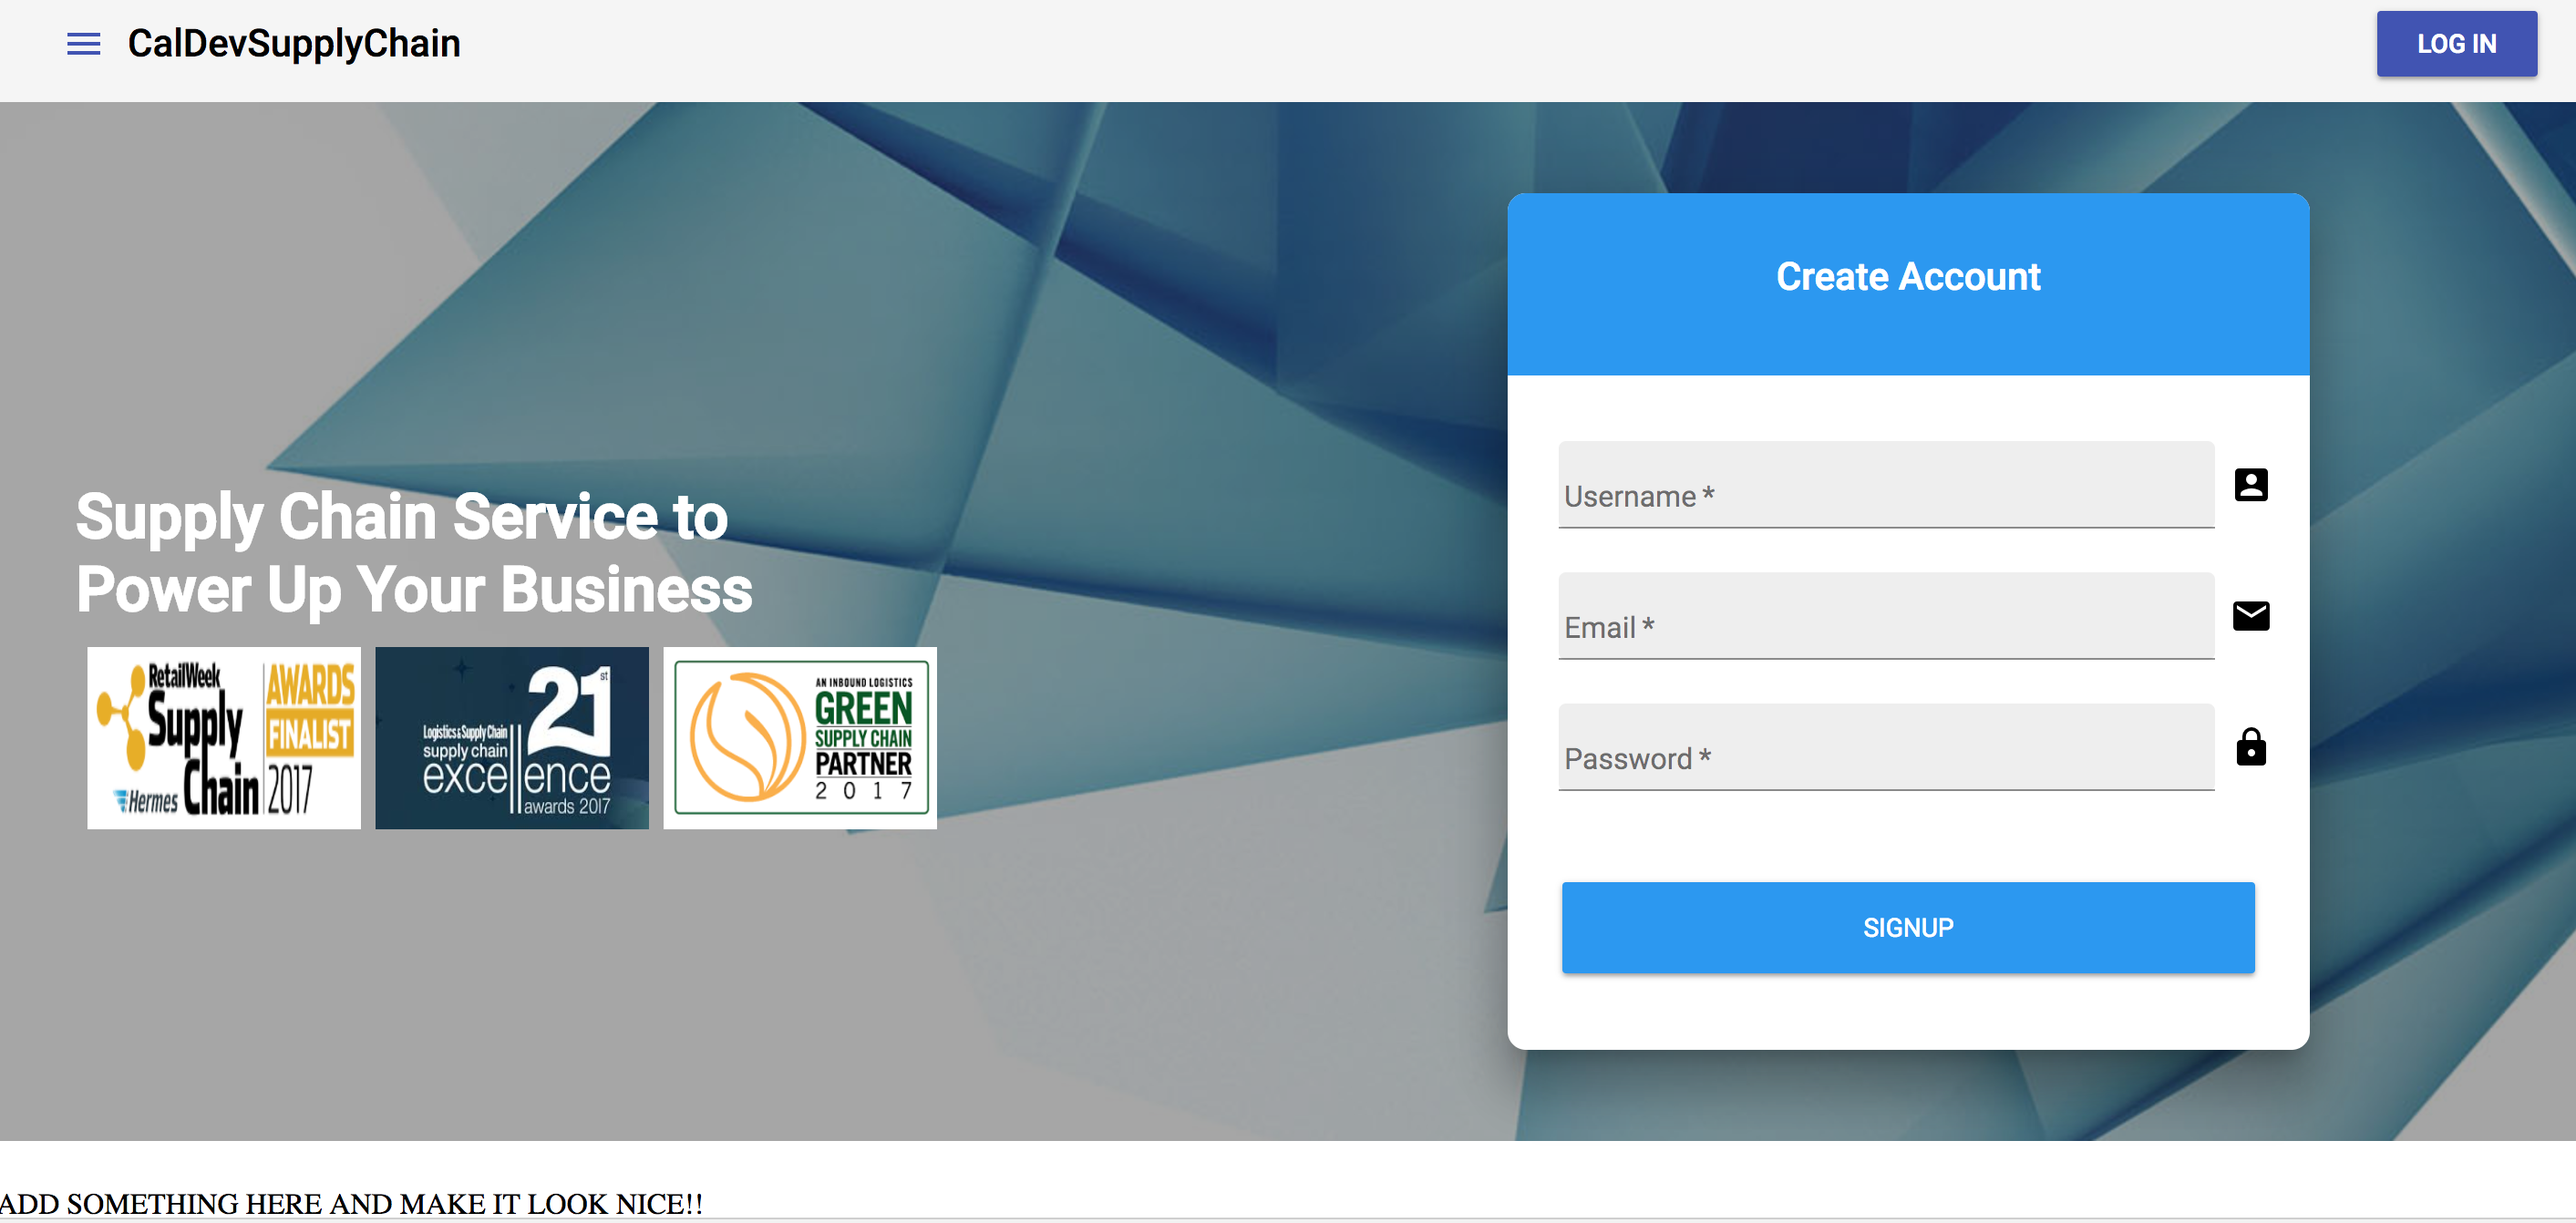
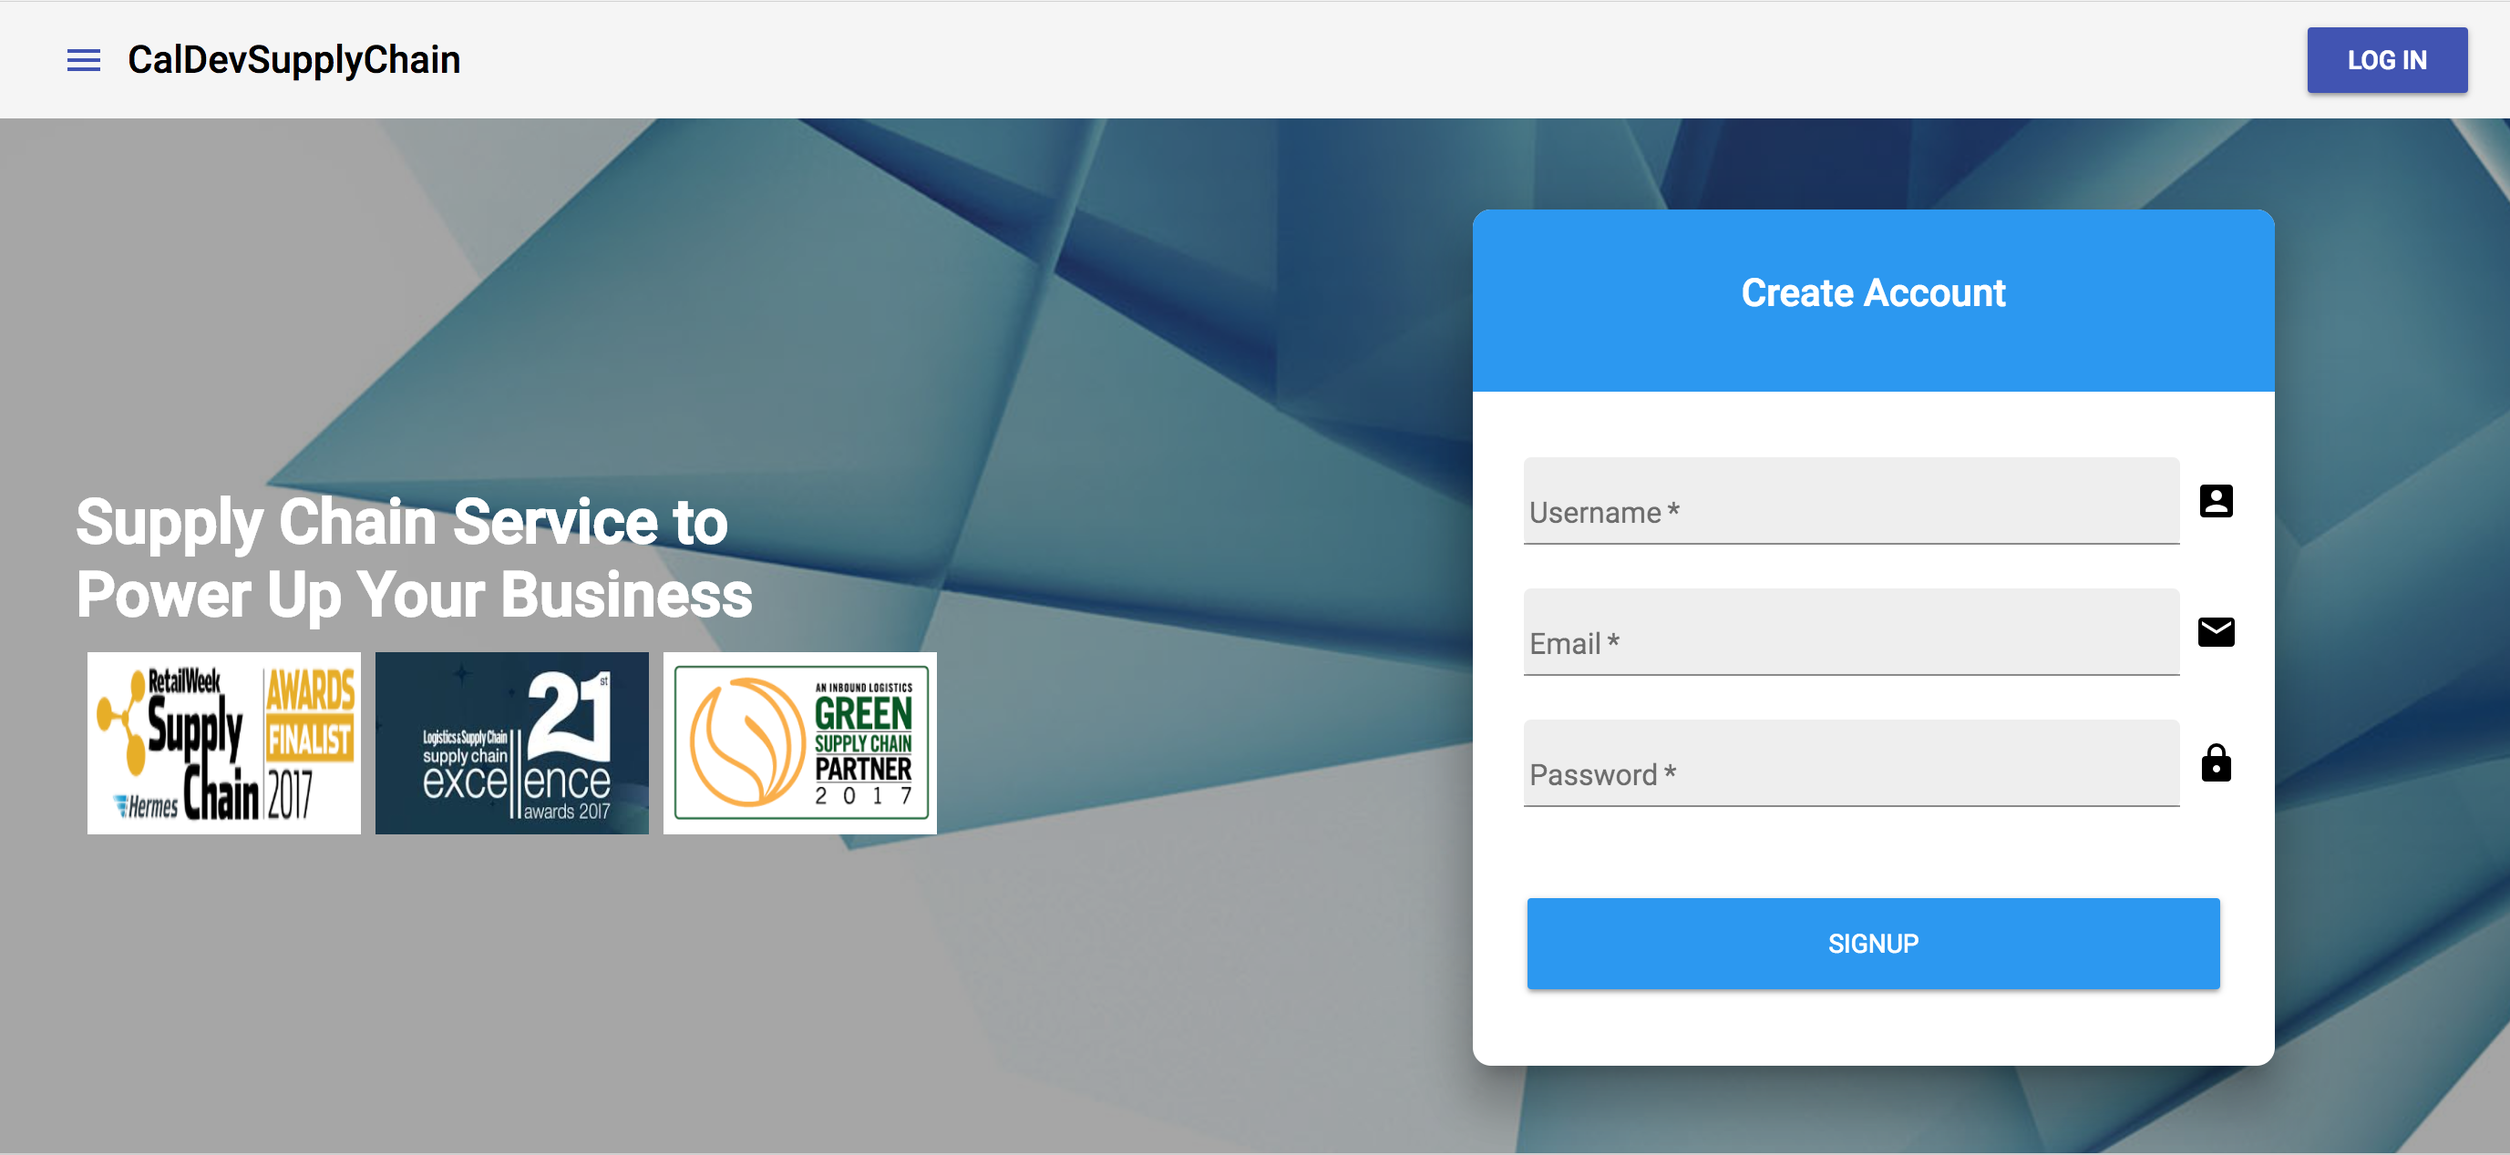
change files for order

diff --git a/app/src/containers/MyOrderPage.js b/app/src/containers/MyOrderPage.js
@@ -1,0 +1,91 @@
+import React, { Component } from 'react'
+class MyOrderPage extends Component {
+
+    render() {
+        return (
+            <div>
+                <button class="button button4">MyOrder</button>
+                <button class="button button4">Manufacturer</button>
+                <button class="button button4">Designer</button>
+
+                <div className= "create_order">
+                    <a href="#" class="button_link button4"> Create Order</a>
+                </div>
+                <div className= "active-order">
+                    <h1>Active Order</h1>
+                </div>
+
+
+                <div className= "table">
+                    <table>
+                        <tr>
+                            <th>Order#</th>
+                            <th>Created on</th>
+                            <th>Expect delivery</th>
+                            <th>Progress</th>
+                            <th>Agent</th>
+                            <th>Total</th>
+                        </tr>
+                        <br/>
+                        <tr>
+                        <td>#001</td>
+                        <td>09/05/2017</td>
+                        <td>12/05/2017</td>
+                        </tr>
+                        <tr>
+                        <td>#002</td>
+                        <td>08/05/2017</td>
+                        <td>01/05/2018</td>
+                        </tr>
+                        <tr>
+                        <td>#003</td>
+                        <td>10/05/2017</td>
+                        <td>02/05/2018</td>
+                        </tr>
+
+                    </table>
+                </div>
+
+                <div className= "active-order">
+                    <h1>Process Order</h1>
+                </div>
+
+                <div className= "table">
+                    <table>
+                        <tr>
+                            <th>Order#</th>
+                            <th>Created on</th>
+                            <th>Delivery</th>
+                            <th>Progress</th>
+                            <th>Agent</th>
+                            <th>Total</th>
+                        </tr>
+                        <br/>
+                        <tr>
+                            <td>#004</td>
+                            <td>09/05/2017</td>
+                            <td>12/05/2017</td>
+                        </tr>
+                        <tr>
+                            <td>#005</td>
+                            <td>08/05/2017</td>
+                            <td>01/05/2018</td>
+                        </tr>
+                        <tr>
+                            <td>#006</td>
+                            <td>10/05/2017</td>
+                            <td>02/05/2018</td>
+                        </tr>
+
+                    </table>
+                </div>
+
+            </div>
+
+
+
+        )
+    }
+}
+
+export default MyOrderPage

diff --git a/app/src/containers/LoginPage.js b/app/src/containers/LoginPage.js
@@ -2,23 +2,30 @@ import React, { Component } from 'react'
 import AppBar from 'material-ui/AppBar';
 import AppBarExampleIcon from '../components/AppBar/LoginAppBar';
 //import Background from '/Users/liusongyu/Desktop/FE/CalDevSupplyChain/app/src/blue-background.jpg';
-import Background from '../asset/img/blue-background.jpg';
+import Background from '../asset/img/bg2.jpg';
 var sectionStyle = {
     width: "100%",
     height: "1000px",
     backgroundImage: "url(" + Background + ")"
 };
 
-
-
 class LoginPage extends Component {
 
     render() {
         return (
             <div>
+                <div className="t">
+                <h1>Welcome back!</h1>
+                </div>
                 <section style={ sectionStyle }>
-                    {<h1>{`Login Page`}</h1>}
-                    {<h2>{`Welcome back!`}</h2>}
+
+                    {/*<button type="button" class="btn btn-primary">Primary</button>*/}
+                    {/*<a class="btn btn-primary" href="#" role="button">Link</a>*/}
+                    <a href="/myorderPage" class="button_link button4"> MyOrder</a>
+                    <a href="#" class="button_link button4"> Manufacturer</a>
+                    <a href="#" class="button_link button4"> Designer</a>
+
+
                 </section>
 
                 <AppBarExampleIcon></AppBarExampleIcon>

diff --git a/app/src/index.css b/app/src/index.css
@@ -10,6 +10,79 @@ html, body {
   margin-left: 300px;
 }
 
+.button_link {
+  background-color: #f1f1f1;
+  border: none;
+  color: black;
+  padding: 10px;
+  text-align: center;
+  text-decoration: none;
+  display: inline-block;
+  font-size: 15px;
+  margin: 4px 2px;
+  cursor: pointer;
+}
+
+.button {
+  background-color: #f1f1f1;
+  border: none;
+  color: blue;
+  padding: 10px;
+  text-align: center;
+  text-decoration: none;
+  display: inline-block;
+  font-size: 15px;
+  margin: 4px 2px;
+  cursor: pointer;
+}
+
+.button4 {border-radius: 12px;}
+
+.t {
+  background-color: rgb(220,220,220);
+  color: rgb(0,191,255);
+  padding: 1px;
+}
+
+.active-order {
+  margin-top: 80px;
+  margin-left: 150px;
+  color: blue;
+}
+
+.process-order {
+  margin-left: 150px;
+  color: blue;
+}
+
+.create_order {
+  margin-left: 1200px;
+}
+/*.table {*/
+  /*margin-left: 500px;*/
+  /*margin-top: 100px;*/
+  /*!*border: 1px solid #ddd;*!*/
+  /*text-align: left;*/
+  /*border-collapse: collapse;*/
+  /*width: 200%;*/
+  /*padding: 25px;*/
+/*}*/
+table {
+  margin-left: 300px;
+  margin-top: 30px;
+  border-collapse: collapse;
+  width: 50%;
+}
+
+th, td {
+  text-align: left;
+  padding: 18px;
+}
+th {
+  /*background-color: #b8ccd8;*/
+  color: black;
+}
+
 .cancelButtons {
   margin-left: 300px;
 }

diff --git a/app/src/containers/App.js b/app/src/containers/App.js
@@ -1,6 +1,7 @@
 import React, { Component } from 'react'
 import HomePage from './HomePage'
 import LoginPage from './LoginPage'
+import MyOrderPage from './MyOrderPage'
 // import { ActivateAccountRoute } from '../routes/Routes'
 import { Switch, Route } from 'react-router-dom'
 import * as AccountAPI from '../api/AccountAPI'
@@ -23,6 +24,12 @@ class App extends Component {
                     // user={user}
                 />
             }/>
+              <Route path="/myorderPage" render={() =>
+                  <MyOrderPage
+                      // user={user}
+                      // onSetupUserInfo={this.handleSetupUserInfo}
+                  />
+              }/>
               {/* WORKING ONE!!!! */}
 
               {/* Buggy */}
